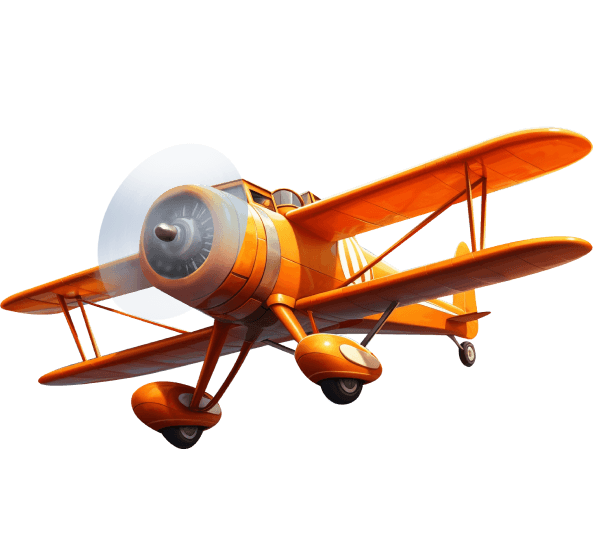
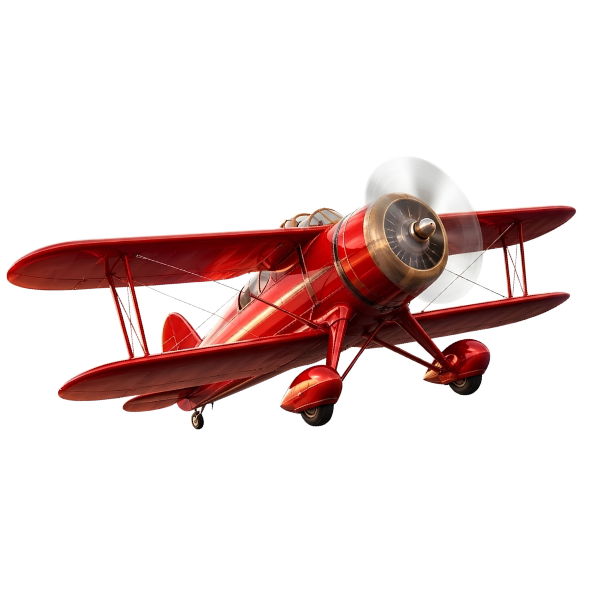
changes

Changed region(s): [[0.0, 0.2129, 1.0, 0.8211]]

diff --git a/style.css b/style.css
@@ -103,6 +103,19 @@ h6 {
     color: var(--orange) !important;
 }
 
+.header-logo {
+    max-height: 38px;
+    width: auto;
+    object-fit: contain;
+    display: block;
+}
+
+@media (max-width: 768px) {
+    .header-logo {
+        max-height: 30px;
+    }
+}
+
 .nav-link {
     color: var(--text) !important;
     font-weight: 500;
@@ -160,18 +173,17 @@ h6 {
 }
 
 .hero-badge {
-    display: inline-flex;
+   display: inline-flex;
     align-items: center;
     gap: 8px;
-    background: rgba(255, 106, 0, 0.08);
+    background: rgb(255 106 0);
     border: 1px solid var(--border);
-    border-radius: 50px;
-    padding: 6px 18px;
-    font-size: .85rem;
-    color: var(--orange);
+    border-radius: 7px;
+    padding: 3px 10px;
+    font-size: 16px;
+    color: #f6f6f6;
     font-weight: 600;
     margin-bottom: 1.5rem;
-    animation: fadeDown .6s ease;
 }
 
 .hero-badge .dot {
@@ -277,10 +289,11 @@ h6 {
 }
 
 .hero-title .highlight {
-    color: var(--orange) !important;
-    text-shadow: 0 0 15px rgb(248 248 248 / 60%), 0 0 3px rgb(0 0 0 / 59%);
+    color: #ffffff !important;
+    text-shadow: 0 0 15px rgb(248 248 248 / 0%), 0 0 3px rgb(0 0 0 / 59%);
     font-weight: 800;
     font-size: 47px;
+    background: #f06400;
 }
 
 .hero-sub {
@@ -372,7 +385,7 @@ h6 {
 
 .plane-svg {
     overflow: visible !important;
-    animation: planeFloat 3.2s ease-in-out infinite;
+    animation: planeFloat 3.2s ease-in-out infinite !important;
     /* filter: drop-shadow(0 0 15px rgba(255, 106, 0, 0.3)); */
     width: 100%;
     height: auto;
@@ -2244,22 +2257,24 @@ footer h5 {
 
     0%,
     100% {
-        transform: translateY(0) scaleX(-1) rotate(-4deg);
+        transform: translateY(0) scaleX(-1) rotate(-0deg);
     }
 
     50% {
-        transform: translateY(-14px) scaleX(-1) rotate(-1deg);
+        transform: translateY(-14px) scaleX(-1) rotate(-0deg);
     }
 }
 
 .plane-img {
-    position: relative;
+
+        position: relative;
     top: -30px;
-    animation: planeFloatFlipped 3.2s ease-in-out infinite;
+    animation: planeFloat 3.2s ease-in-out infinite;
     filter: drop-shadow(2px 4px 6px black) drop-shadow(0 15px 30px rgba(0, 0, 0, 0.15));
     transition: filter 0.3s ease;
     max-width: 100%;
     height: auto;
+    transform: rotate(8deg) !important;
 }
 
 .plane-img:hover {

diff --git a/index.html b/index.html
@@ -20,7 +20,9 @@
     <!-- NAVBAR -->
     <nav class="navbar navbar-expand-lg fixed-top" id="mainNav">
         <div class="container">
-            <a class="navbar-brand" href="#home">✈ AVIAT<span>OR</span></a>
+            <a class="navbar-brand py-0" href="#home">
+                <img src="logo.png" alt="Aviator Logo" class="header-logo" />
+            </a>
             <div class="d-flex align-items-center gap-2 ms-auto d-lg-none">
                 <a href="https://wa.me/264813278786" target="_blank" class="nav-wa-mobile" aria-label="WhatsApp"><i
                         class="fab fa-whatsapp"></i></a>
@@ -81,7 +83,7 @@
                 <div class="col-lg-6 col-12  text-start text-md-start text-center order-2 order-lg-1 m-0">
                     <!-- Urgency Notice -->
 
-                    <div class="hero-badge"><span class="dot"></span> Authorized Distirbubutor for Spribe API </div>
+                    <div class="hero-badge"><span class="dot"></span> Authorized Distirbubutor for Spribe Aviator API </div>
                     <h1 class="hero-title mb-3">Launch Your Aviator Platform with <br class="d-none d-md-inline"><span
                             class="highlight" id="typed-text">Easy Integration</span><span class="cursor">|</span></h1>
                     <p class="hero-sub mb-4">Launch your custom gaming platform quickly. Buy our premium, responsive
